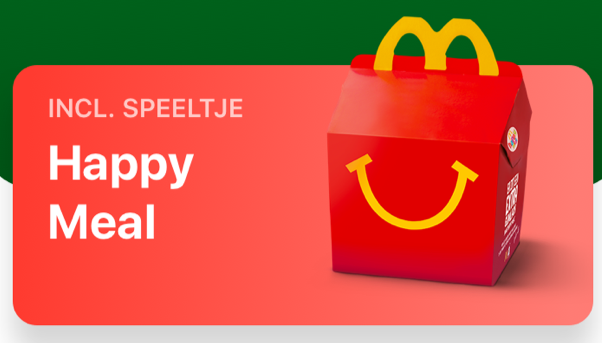
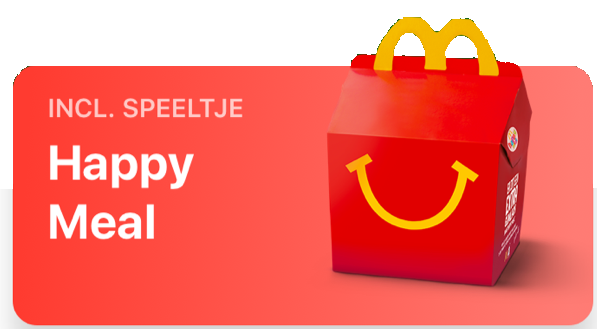
final

diff --git a/MpsAssignment-7/MpsAssignment-7/MainPage.xaml b/MpsAssignment-7/MpsAssignment-7/MainPage.xaml
@@ -13,37 +13,66 @@
             <RowDefinition Height="Auto"/>
             <RowDefinition Height="*"/>
         </Grid.RowDefinitions>
-        <Frame CornerRadius="50" Padding="0">
-            <Image Source="overlay.png" Aspect="Fill" HeightRequest="300" VerticalOptions="StartAndExpand" /> 
+
+        <Frame CornerRadius="30" Padding="0" BackgroundColor="#1B701E">
+            <Image Source="overlay.png" Aspect="Fill" HeightRequest="300" Margin="0,0,0,0" VerticalOptions="StartAndExpand" /> 
+
         </Frame>
+        <StackLayout>
+            <ImageButton x:Name="logo" Source="logo.png" InputTransparent="True" HorizontalOptions="CenterAndExpand" VerticalOptions="" />
+        </StackLayout>
         
-        <StackLayout Orientation="Vertical" Spacing="20" HorizontalOptions="Start" VerticalOptions="Start" Margin="20,50">
-            <Button Text="Menu" TextColor="White" BackgroundColor="DarkGreen"  WidthRequest="100" HeightRequest="100" BorderRadius="50" Padding="0" FontSize="Large"  Font="20" />
+        <StackLayout Orientation="Horizontal" Spacing="20" HorizontalOptions="Start" VerticalOptions="Start" Margin="20,50">
+            <Button Text="Menu" TextColor="White" BackgroundColor="DarkGreen" FontFamily="header"  WidthRequest="100" HeightRequest="100" BorderRadius="50" Padding="0" FontSize="Large"  Font="30" />
+            
         </StackLayout>
         
         <StackLayout Padding="0" HorizontalOptions="End" VerticalOptions="Center" WidthRequest="100" HeightRequest="100">
             <Frame CornerRadius="50" Padding="0" >
                 <ImageButton x:Name="proPic" Source="proPicMenu.png" InputTransparent="True" HorizontalOptions="Center" VerticalOptions="End" />
+               
+
             </Frame>
+            
         </StackLayout>
+              <Image Source="happyMeal.png" Grid.Row="1"  Aspect="Fill" HeightRequest="200" Margin="0,0,0,0" VerticalOptions="Center" />
 
-        <StackLayout Grid.Row="1" Padding="4" Spacing="50" IsClippedToBounds="True" >
-            <Image Source="happyMeal.png"  Aspect="Fill" HeightRequest="200" Margin="20,50" VerticalOptions="StartAndExpand" />
+              <Image Source="rundMEAL.png"  Grid.Row="2" Aspect="Fill" HeightRequest="200" Margin="0,0,0,0" VerticalOptions="Center" />
+
+              <Image Source="visMeal.png"  Grid.Row="3" Aspect="Fill" HeightRequest="200" Margin="0,0,0,0" VerticalOptions="Center" />
+
+              <Image Source="kids.png"  Grid.Row="4" Aspect="Fill" HeightRequest="200" Margin="0,0,0,0" VerticalOptions="Center" />
+        <StackLayout Grid.Row="5" Margin="0,0,0,0" BackgroundColor="WhiteSmoke">
+            <Grid HorizontalOptions="FillAndExpand" VerticalOptions="CenterAndExpand" >
+                <Grid.ColumnDefinitions>
+                    <ColumnDefinition Width="*"/>
+                    <ColumnDefinition Width="*"/>
+                    <ColumnDefinition Width="*"/>
+                    <ColumnDefinition Width="*"/>
+                    <ColumnDefinition Width="*"/>
+                </Grid.ColumnDefinitions>
+                
+                <StackLayout Orientation="Vertical" Spacing="10" HorizontalOptions="CenterAndExpand" >
+                    <ImageButton Source="startButton.png" HeightRequest="80" HorizontalOptions="CenterAndExpand"/>
+                </StackLayout>
+
+                <StackLayout Grid.Column="1" Orientation="Vertical" Spacing="10" HorizontalOptions="CenterAndExpand" >
+                    <ImageButton  Source="couponButton.png" HeightRequest="80" HorizontalOptions="CenterAndExpand"/>
+                </StackLayout>
+
+                <StackLayout Grid.Column="2" Orientation="Vertical" Spacing="10" HorizontalOptions="CenterAndExpand" >
+                    <ImageButton  Source="restaurantsButton.png" HeightRequest="80" HorizontalOptions="CenterAndExpand"/>
+                </StackLayout>
+
+                <StackLayout Grid.Column="3" Orientation="Vertical" Spacing="10" HorizontalOptions="CenterAndExpand" >
+                    <ImageButton  Source="menu2Button.png" HeightRequest="80" HorizontalOptions="CenterAndExpand"/>
+                </StackLayout>
+
+                <StackLayout Grid.Column="4" Orientation="Vertical" Spacing="10" HorizontalOptions="CenterAndExpand" >
+                    <ImageButton  Source="meerButton.png" HeightRequest="80" HorizontalOptions="CenterAndExpand"/>
+                </StackLayout>
+            </Grid>
         </StackLayout>
-        
-        <StackLayout Grid.Row="2" Padding="4" Spacing="50" >
-            <Image Source="rundMEAL.png"  Aspect="Fill" HeightRequest="200" Margin="20,50" VerticalOptions="StartAndExpand" />
-        </StackLayout>
-
-        <StackLayout Grid.Row="3" Padding="4" Spacing="50" IsClippedToBounds="True" >
-            <Image Source="visMeal.png"  Aspect="Fill" HeightRequest="200" Margin="20,50" VerticalOptions="StartAndExpand" />
-        </StackLayout>
-
-        <StackLayout Grid.Row="4" Padding="4" Spacing="50" >
-            <Image Source="kids.png"  Aspect="Fill" HeightRequest="200" Margin="20,50" VerticalOptions="StartAndExpand" />
-        </StackLayout>
-
-
 
     </Grid>
 

diff --git a/MpsAssignment-7/MpsAssignment-7.Android/Resources/Resource.designer.cs b/MpsAssignment-7/MpsAssignment-7.Android/Resources/Resource.designer.cs
@@ -8343,82 +8343,85 @@ namespace MpsAssignment_7.Droid
 			public const int kids = 2131165287;
 			
 			// aapt resource value: 0x7F070068
-			public const int meerButton = 2131165288;
+			public const int logo = 2131165288;
 			
 			// aapt resource value: 0x7F070069
-			public const int menu2Button = 2131165289;
+			public const int meerButton = 2131165289;
 			
 			// aapt resource value: 0x7F07006A
-			public const int menuButton = 2131165290;
+			public const int menu2Button = 2131165290;
 			
 			// aapt resource value: 0x7F07006B
-			public const int mtrl_snackbar_background = 2131165291;
+			public const int menuButton = 2131165291;
 			
 			// aapt resource value: 0x7F07006C
-			public const int mtrl_tabs_default_indicator = 2131165292;
+			public const int mtrl_snackbar_background = 2131165292;
 			
 			// aapt resource value: 0x7F07006D
-			public const int navigation_empty_icon = 2131165293;
+			public const int mtrl_tabs_default_indicator = 2131165293;
 			
 			// aapt resource value: 0x7F07006E
-			public const int notification_action_background = 2131165294;
+			public const int navigation_empty_icon = 2131165294;
 			
 			// aapt resource value: 0x7F07006F
-			public const int notification_bg = 2131165295;
+			public const int notification_action_background = 2131165295;
 			
 			// aapt resource value: 0x7F070070
-			public const int notification_bg_low = 2131165296;
+			public const int notification_bg = 2131165296;
 			
 			// aapt resource value: 0x7F070071
-			public const int notification_bg_low_normal = 2131165297;
+			public const int notification_bg_low = 2131165297;
 			
 			// aapt resource value: 0x7F070072
-			public const int notification_bg_low_pressed = 2131165298;
+			public const int notification_bg_low_normal = 2131165298;
 			
 			// aapt resource value: 0x7F070073
-			public const int notification_bg_normal = 2131165299;
+			public const int notification_bg_low_pressed = 2131165299;
 			
 			// aapt resource value: 0x7F070074
-			public const int notification_bg_normal_pressed = 2131165300;
+			public const int notification_bg_normal = 2131165300;
 			
 			// aapt resource value: 0x7F070075
-			public const int notification_icon_background = 2131165301;
+			public const int notification_bg_normal_pressed = 2131165301;
 			
 			// aapt resource value: 0x7F070076
-			public const int notification_template_icon_bg = 2131165302;
+			public const int notification_icon_background = 2131165302;
 			
 			// aapt resource value: 0x7F070077
-			public const int notification_template_icon_low_bg = 2131165303;
+			public const int notification_template_icon_bg = 2131165303;
 			
 			// aapt resource value: 0x7F070078
-			public const int notification_tile_bg = 2131165304;
+			public const int notification_template_icon_low_bg = 2131165304;
 			
 			// aapt resource value: 0x7F070079
-			public const int notify_panel_notification_icon_bg = 2131165305;
+			public const int notification_tile_bg = 2131165305;
 			
 			// aapt resource value: 0x7F07007A
-			public const int overlay = 2131165306;
+			public const int notify_panel_notification_icon_bg = 2131165306;
 			
 			// aapt resource value: 0x7F07007B
-			public const int proPicMenu = 2131165307;
+			public const int overlay = 2131165307;
 			
 			// aapt resource value: 0x7F07007C
-			public const int restaurantsButton = 2131165308;
+			public const int proPicMenu = 2131165308;
 			
 			// aapt resource value: 0x7F07007D
-			public const int rundMEAL = 2131165309;
+			public const int restaurantsButton = 2131165309;
 			
 			// aapt resource value: 0x7F07007E
-			public const int startButton = 2131165310;
+			public const int rundMEAL = 2131165310;
 			
 			// aapt resource value: 0x7F07007F
-			public const int tooltip_frame_dark = 2131165311;
+			public const int startButton = 2131165311;
 			
 			// aapt resource value: 0x7F070080
-			public const int tooltip_frame_light = 2131165312;
+			public const int tooltip_frame_dark = 2131165312;
 			
 			// aapt resource value: 0x7F070081
-			public const int visMeal = 2131165313;
+			public const int tooltip_frame_light = 2131165313;
+			
+			// aapt resource value: 0x7F070082
+			public const int visMeal = 2131165314;
 			
 			static Drawable()
 			{
